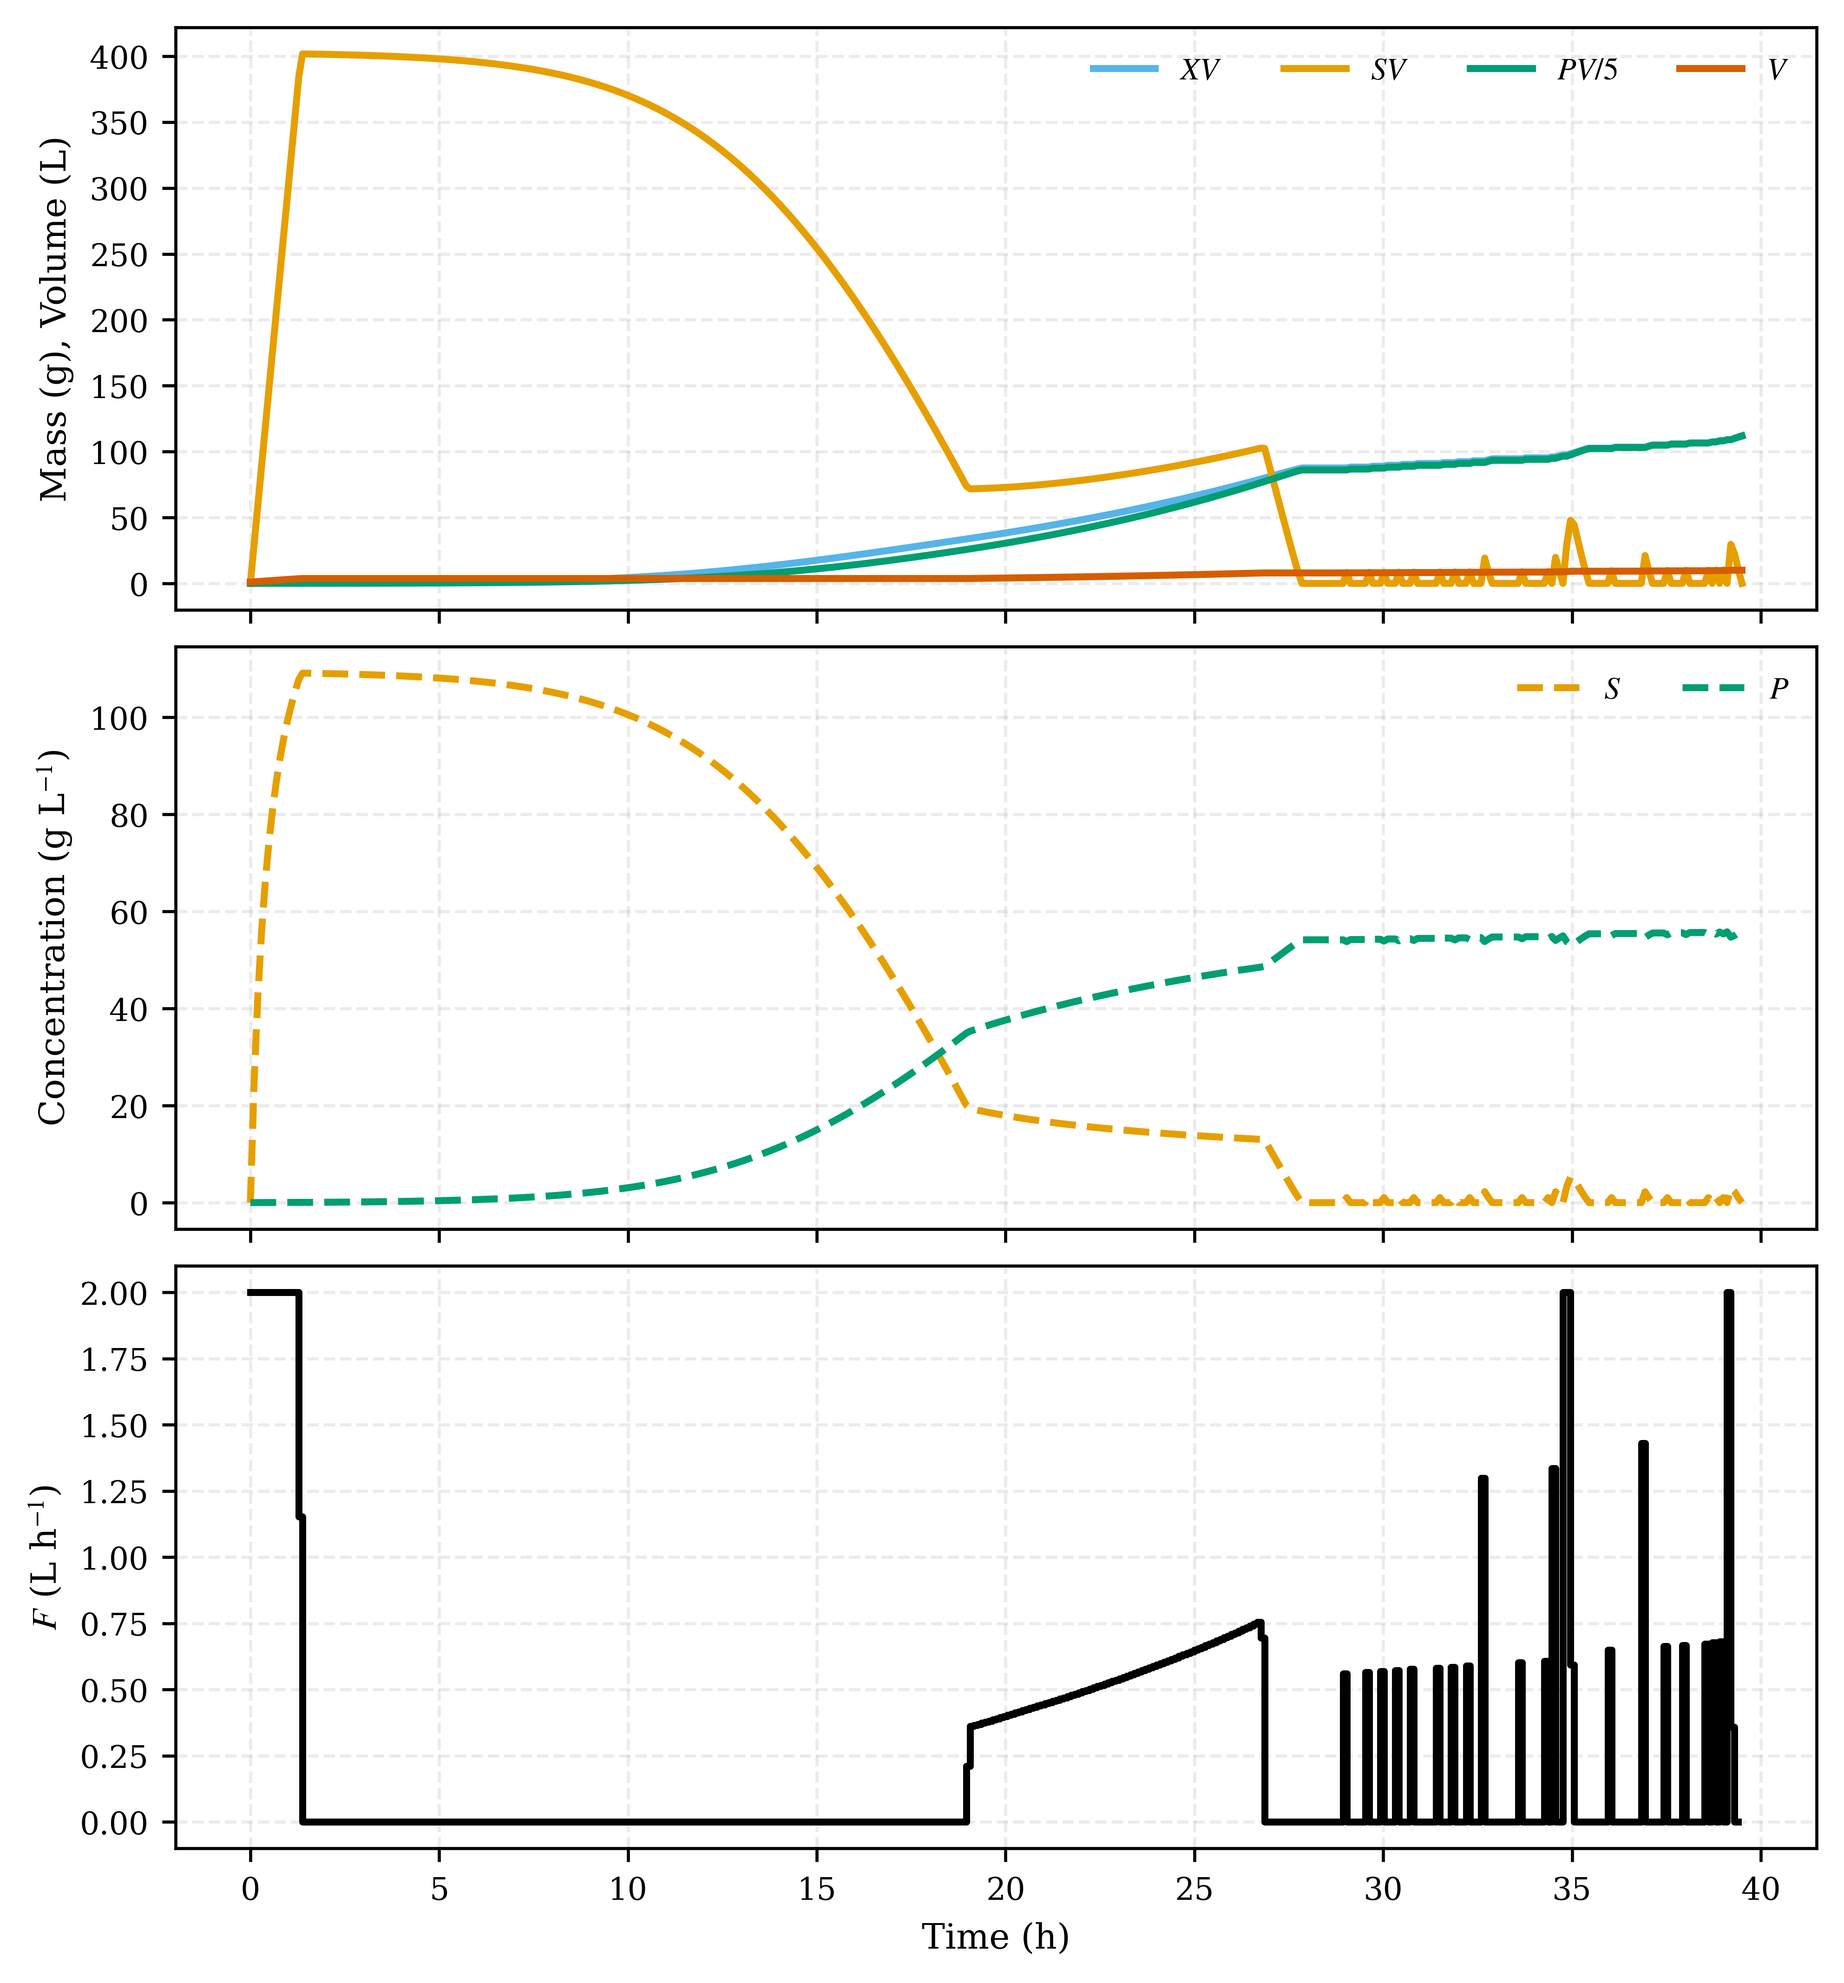
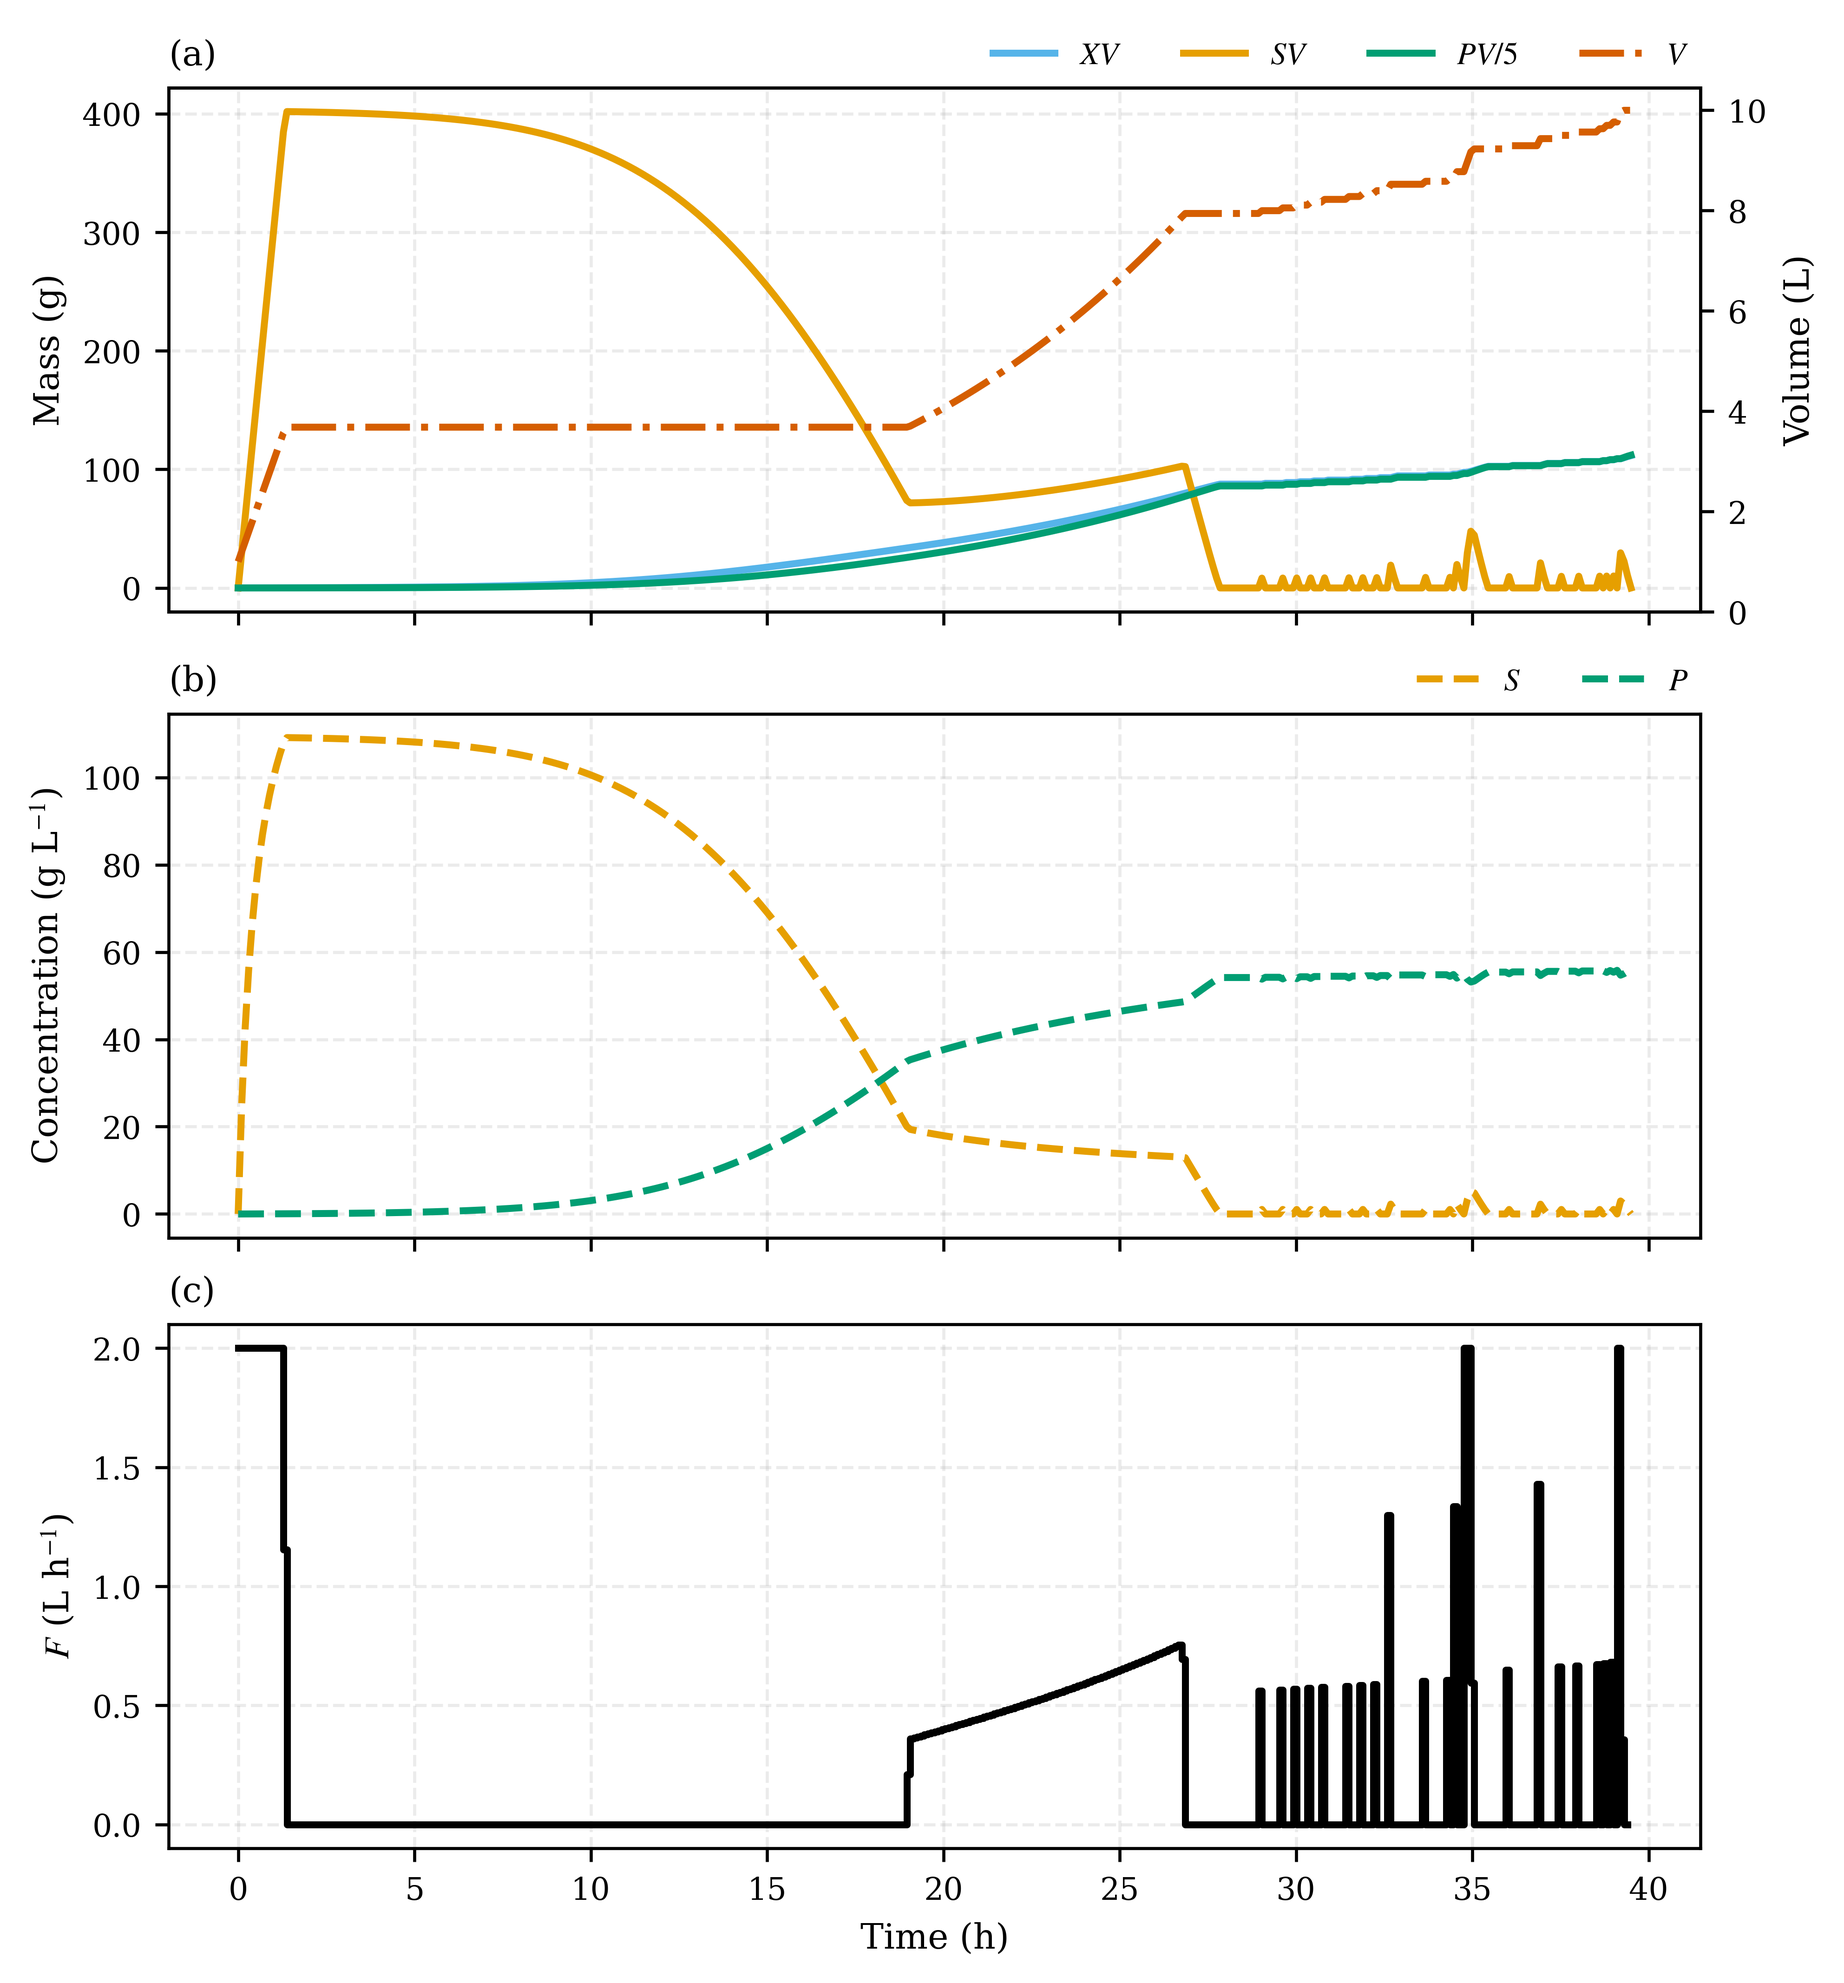
update y-axis of stage 1 plot

diff --git a/scripts/substrate_and_product_inhibition/hybrid_spi_balanced.py b/scripts/substrate_and_product_inhibition/hybrid_spi_balanced.py
@@ -122,19 +122,32 @@ if __name__ == "__main__":
     ax[0].plot(t_grid, X_opt[:,0], label=r"$XV$", color=oi["sky_blue"])
     ax[0].plot(t_grid, X_opt[:,1], label=r"$SV$", color=oi["orange"])
     ax[0].plot(t_grid, X_opt[:,2]/5, label=r"$PV/5$", color=oi["bluish_green"])
-    ax[0].plot(t_grid, X_opt[:,3], label=r"$V$", color=oi["vermillion"])
-    ax[0].set_ylabel("Mass (g), Volume (L)")
-    ax[0].legend(ncol=4, loc="best")
+    ax[0].set_ylabel("Mass (g)")
+    # volume on its own right-hand axis
+    axV = ax[0].twinx()
+    axV.plot(t_grid, X_opt[:,3], label=r"$V$", color=oi["vermillion"], ls="-.")
+    axV.set_ylabel("Volume (L)")
+    axV.set_ylim(bottom=0)
+    axV.grid(False)
+    h1, l1 = ax[0].get_legend_handles_labels()
+    h2, l2 = axV.get_legend_handles_labels()
+    ax[0].legend(h1 + h2, l1 + l2, ncol=4, loc="lower right", bbox_to_anchor=(1.0, 1.01),
+                 frameon=False, borderaxespad=0.0)
 
     ax[1].plot(t_grid, S, label=r"$S$", color=oi["orange"], ls="--", lw=1.8)
     ax[1].plot(t_grid, P, label=r"$P$", color=oi["bluish_green"], ls="--", lw=1.8)
     ax[1].set_ylabel("Concentration (g L$^{-1}$)")
-    ax[1].legend(ncol=2, loc="best")
+    ax[1].legend(ncol=2, loc="lower right", bbox_to_anchor=(1.0, 1.01),
+                 frameon=False, borderaxespad=0.0)
 
     ax[2].step(t_ctrl,U_opt,where="post",color=oi["black"])
     ax[2].set_ylabel(r"$F$ (L h$^{-1}$)")
     ax[2].set_xlabel("Time (h)")
     ax[2].set_ylim(F_min - 0.1, F_max + 0.1)
+
+    # panel labels above each subplot, left-aligned
+    for a, lab in zip(ax, ["(a)", "(b)", "(c)"]):
+        a.set_title(lab, loc="left")
 
     fig.savefig(os.path.join(here, "spi_stage1_balanced.png"), dpi=600, bbox_inches="tight")
     print("saved spi_stage1_balanced.png")
